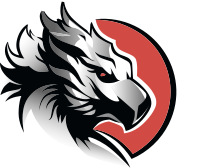
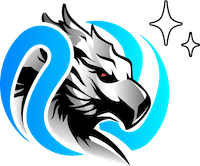
chore: add katana

diff --git a/packages/token-metadata/src/tokens/tokens/tokens.ts b/packages/token-metadata/src/tokens/tokens/tokens.ts
@@ -2101,7 +2101,7 @@ export default {
       tokenType: TokenType.Cw20,
     },
   },
-  
+
   BINJ: {
     name: 'Bird INJ',
     symbol: 'BINJ',
@@ -2116,6 +2116,15 @@ export default {
     symbol: 'NINJA',
     decimals: 6,
     logo: 'ninja.png',
+    coinGeckoId: '',
+    tokenType: TokenType.TokenFactory,
+  },
+
+  KATANA: {
+    name: 'Dog Wif Katana',
+    symbol: 'KATANA',
+    decimals: 6,
+    logo: 'katana.webp',
     coinGeckoId: '',
     tokenType: TokenType.TokenFactory,
   },
